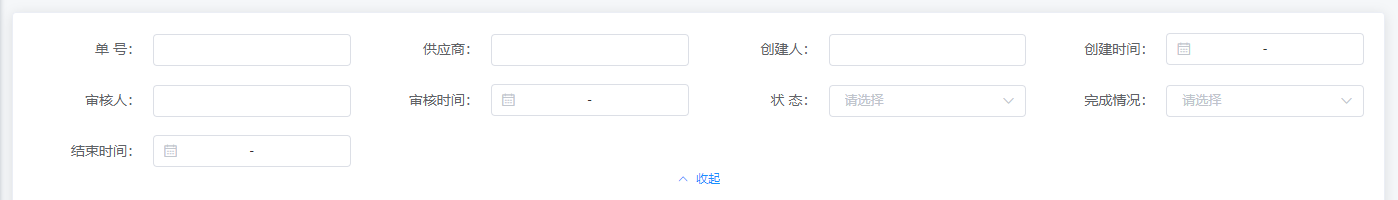
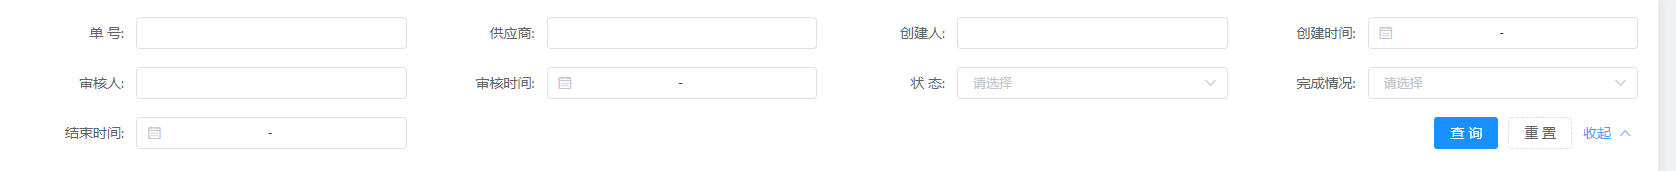
文档更新

diff --git a/docs/.vuepress/config.js b/docs/.vuepress/config.js
@@ -35,7 +35,7 @@ module.exports = {
                     {
                         title: '组件',
                         children: [
-                            '/frontend/components/abstract-table',
+                            '/frontend/components/abstract',
                             '/frontend/components/region-selector',
                             '/frontend/components/search-form',
                             '/frontend/components/upload-file',

diff --git a/docs/frontend/components/search-form.md b/docs/frontend/components/search-form.md
@@ -1,59 +1,45 @@
 # Search Form
 
-一个自适应的表单容器，根据父元素的内宽来确定一行渲染多少个表单控件，同时确定是否需要折叠。
+一个自适应的搜索表单，模仿ant-design-pro，根据父元素的内宽来确定一行渲染多少个表单控件，同时确定是否需要折叠。
 
 <img :src="$withBase('/search-form_1.png')">
 <img :src="$withBase('/search-form_2.png')">
 
 ### 引入：
 
-`@/component/SearchForm`，`@/component/SearchFormItem`
+`@/component/SearchForm`
 
 ### 使用：
 ```html
-<search-form>
-    <search-form-item label="单 号：">
+<search-form v-model="searchForm" @search="search">
+    <el-form-item label="label1">
         <el-input/>
-    </search-form-item>
-    <search-form-item label="采购订单：">
+    </el-form-item>
+    <el-form-item label="label2">
         <el-input/>
-    </search-form-item>
-    <search-form-item label="创建人：">
-        <el-input/>
-    </search-form-item>
-    <search-form-item label="创建时间：">
-        <el-date-picker/>
-    </search-form-item>
-    <search-form-item label="审核人：">
-        <el-input/>
-    </search-form-item>
-    <search-form-item label="审核时间：">
-        <el-date-picker/>
-    </search-form-item>
-    <search-form-item label="状 态：">
-        <el-select/>
-    </search-form-item>
+    </el-form-item>
 </search-form>
 ```
 
 ### SearchForm Attributes：
 
-| 参数                | 说明                                 | 类型     | 默认      |
-| :-----------------: | :----------------------------------: | :------: | :-------: |
-| label-width         | 等同于`el-form`的`label-width`       | `string` | `'120px'` |
-| xs                  | 父元素内宽<768px时，每行渲染多少空间 | `number` | `1`       | 
-| sm                  | >=768px                              | `number` | `2`       | 
-| md                  | >=998px                              | `number` | `3`       | 
-| lg                  | >=1200px                             | `number` | `4`       | 
+| 参数        | 说明                                 | 类型     | 默认      |
+| :---------: | :----------------------------------: | :------: | :-------: |
+| model       | 表单数据，支持v-model，用于重置表单  | `object` | -         |
+| label-width | 等同于 `el-form` 的 `label-width`    | `string` | `'120px'` |
+| xs          | 父元素内宽<768px时，每行渲染多少空间 | `number` | `1`       | 
+| sm          | >=768px                              | `number` | `2`       | 
+| md          | >=998px                              | `number` | `3`       | 
+| lg          | >=1200px                             | `number` | `4`       | 
 
-### SearchForm Slots：
+### SearchForm Events：
 
-| 名称     | 说明                                                                    |
-| :------: | :---------------------------------------------------------------------: |
-| collapse | 折叠按钮，参数为 `{collapse:展开为true否则false,handle:展开折叠的方法}` |
+| 名称   | 说明                                                                    |
+| :----: | :--------------------------------: |
+| search | 点击查询按钮触发                   |
+| reset  | 点击重置按钮触发，参数为表单初始值 |
 
-### SearchFormItem Attributes：
-
-| 参数  | 说明                          | 类型     | 默认      |
-| :---: | :---------------------------: | :------: | :-------: |
-| label | 等同于`el-form-item`的`label` | `string` | -         |
+::: tip 注意
+`<search-form>` 算是对 `<el-form>` 的封装，其 `label-suffix` 属性为`':'`，
+也就是说 `<search-form>` 下的所有 `<el-form-item>` 项的label后缀为`':'`
+:::

diff --git a/docs/frontend/components/abstract.md b/docs/frontend/components/abstract.md
@@ -1,0 +1,63 @@
+# 二次封装的element-ui组件
+
+这些组件位于 `@/component/abstract` 下，均为函数式组件，无特殊声明时与原始的 `element-ui` 组件没有区别。
+
+## Dialog
+
+位于 `@/component/abstract/Dialog/index.vue`。
+
+可拖拽，超出滚动（使用 `el-scrollbar`），使用 `value`（支持 `v-model`） 代替 `visible`，新增了 `loading` 属性。
+
+## Form
+
+位于 `@/component/abstract/Form`。
+
+对 `el-form` 和 `el-form-item` 做了默认封装（`index.vue` 和 `item.vue`），使用 `el-row` 和 `el-col` 包裹。
+
+用法：
+```vue
+<abstract-form :model="model" :rules="rules">
+    <abstract-form-item label="xxx" prop="xxx">
+        <el-input/>
+    </abstract-form-item>
+</abstract-form>
+```
+
+`abstract-form` 的其他用法与 `el-form` 没有区别，`abstract-form-item` 参数如下：
+
+| 名称  | 说明                                   | 类型    | 默认值 |
+|:-----:|:--------------------------------------:|:-------:|:------:|
+| full  | 为 `true` 时，将占满一行               | Boolean | -      |
+| thin  | 为 `true` 时，屏幕宽度>=1200px下占12列 | Boolean | -      |
+| label | 等同于 `el-form-item` 的 `label`       | String  | -      |
+| prop  | 等同于 `el-form-item` 的 `prop`        | String  | -      |
+
+::: tip 注意
+当 `abstract-form-item` 的 `full` 为 `true` 时，可以认为是 `el-form-item` 的子集
+:::
+
+## Pagination
+
+位于 `@/component/abstract/Pagination/index.vue`。
+
+设置了一些默认属性，与 `el-pagination` 的区别是增加了 `model` 属性，
+`model` 是一个 `{total, page, pageSize}` 对象，对应 `el-pagination` 的 `total`、`current-page`、`page-size` 属性
+
+## Table
+
+位于 `@/component/abstract/Table/index.vue`。
+
+给 `<el-table>` 设置了一些默认属性，设置了 `empty` 插槽（位于 `@/component/Empty`）。
+```html
+<el-table
+    ref="table"
+    current-row-key="id"
+    row-key="id"
+    highlight-current-row
+    {...data}
+    >
+    {children}
+    <Empty slot="empty"/>
+</el-table>
+```
+

diff --git a/docs/frontend/layout.md b/docs/frontend/layout.md
@@ -2,11 +2,11 @@
 
 <img :src="$withBase('/布局.png')">
 
-文件目录：`@/layout/index.vue`。
+布局也是一个组件，比较重型而已，文件目录：`@/layout/index.vue`。
 
 此布局是在vue-element-admin的基础上改造而来，并且模仿and design pro实现了三种导航模式。
 
-实际上这个布局算是二级路由，一级路由是App.vue，这就是为什么经常会看到路由会这么写的原因：
+实际上这个布局算是二级路由，一级路由是 `App.vue`，这就是为什么经常会看到路由会这么写的原因：
 ```json
 {
     "path": "/",
@@ -15,8 +15,7 @@
         {
             "path": "index",
             "name": "index",
-            "component": Page,
-            "meta": {"title": "首页"}
+            "component": Page
         }
     ]
 }
@@ -27,9 +26,9 @@
 
 项目中没有用到 `Layout` 的页面只有 `@/router/define.js` 里的 `login`、`403`、`404`、`500`。
 
-此外，在写`Layout`这个重型组件时，已经尽可能地进行独立化（拥有作为独立组件的可能性）。
-目前`Layout`的数据控制基本由`Vue.observable`实现（文件都在`@/layout/store`下），
-仅有*未读消息数*、*用户信息*需要使用`vuex`。
+此外，在写 `Layout` 这个重型组件时，已经尽可能地进行独立化（拥有作为独立组件的可能性）。
+目前 `Layout` 的数据控制基本由 `Vue.observable` 实现（文件都在 `@/layout/store` 下），
+仅有*未读消息数*、*用户信息*需要使用 `vuex`。
 
 ## 侧边栏
 
@@ -124,6 +123,6 @@ PC端的行为是切换侧边栏的折叠状态，移动端是切换侧边栏在
 
 只是一个静态dom，想咋改就咋改。
 
-目前页脚全局显示，没有提供配置来隐藏。
+目前页脚全局显示，没有提供配置来隐藏，不想显示的直接删除即可。
 
 

diff --git a/docs/frontend/permission.md b/docs/frontend/permission.md
@@ -1,17 +1,25 @@
 # 权限
 
+本前端项目里需要用到权限控制的地方有两个：
+
+    1. 路由页面的跳转
+       源码位于 `@/router/guardian/accessControl.js`，再说明一点，不需要登录的路由也不需要进行权限控制
+    
+    2. 按钮
+       一般使用 `v-if` 或者 `render` 做，尽量不使用 `display: none`，如果不得已那么需要在按钮方法里控制
+
 项目使用基于资源url的形式来实现权限控制，说白点就是用户的所有操作都可以用一个url来标识。
 
 鉴权方法为 `@/util/auth.js #auth`。
 
 ### 鉴权前的准备工作
 
-登陆成功后，后台返回用户所拥有的资源，构造出用户的权限树。
-之后用户在进入系统的任意一个非白名单内的路由时，会向后台获取所有的资源，构造出总权限树。
+登陆成功时，后台返回用户所拥有的资源，构造出用户的权限树。
+之后用户在进入系统的任意一个需要登录才可访问的路由时，会向后台获取所有的资源，构造出总权限树（同时渲染菜单）。
 
 ### 鉴权流程
 
-1. 如果用户是`admin`身份，那么直接放行。
+1. 如果用户是 `admin` 身份，那么直接放行。
 
 2. 如果访问的 `url` 不在总权限树内，说明该操作无需权限，放行。
 
@@ -23,7 +31,7 @@
 
 ### 如何移除权限控制？
 
-前端的权限控制的方法全在 `@/util/auth.js` 里面，哪里引入就改哪里，粗暴点直接把`# auth`方法返回true就完事了。
+前端的权限控制的方法全在 `@/util/auth.js` 里面，哪里引入就改哪里，粗暴点直接让 `# auth` 方法返回true就完事了。
 后端的权限控制由拦截器实现，同样的改造原理，easy啦。
 
 ### 为什么不是RBAC？

diff --git a/docs/frontend/mock.md b/docs/frontend/mock.md
@@ -1,8 +1,7 @@
 # mock
 
 如果不想依赖后端的话，需要将 `@/config` 中的 `useMock` 设为true，
-同时在 `@/mock/controller` 里写对应的处理路由，项目中预先写了三个
-基础的路由，可以让你进行 *登陆-登出* 的基础操作，可以照着代码自行扩展。
+同时在 `@/mock/controller` 里写对应的处理路由，项目中预先写了三个基础的路由，
+可以让你进行 *登陆-登出* 的基础操作，可以照着代码自行扩展。
 
-目前mock和代理不能共存，如果真想要这个功能的话，需要自己在`vue.config.js` 
-中的 `devServer.proxy` 设置拦截路径。
+目前mock和代理不能共存，如果真想要这个功能的话，需要自己在`vue.config.js` 中的 `devServer.proxy` 设置拦截路径。

diff --git a/docs/frontend/components/region-selector.md b/docs/frontend/components/region-selector.md
@@ -20,6 +20,7 @@
 | 参数                | 说明                                    | 类型             | 默认    |
 | :-----------------: | :-------------------------------------: | :--------------: | :-----: |
 | type                | 选择器类型，`tab / tree`                | `string`         | `'tab'` |
+| regionDataUrl       | 行政区域json的请求地址                  | `string`         | `${process.env.BASE_URL}static/json/region-pca.json` |
 | value / v-model     | 绑定值                                  | `string / array` | -       | 
 | readonly            | 等同于`el-select`的`disabled`           | `boolean`        | -       | 
 | size                | 等同于`el-select`的`size`               | `string`         | -       | 

diff --git a/docs/frontend/plugins.md b/docs/frontend/plugins.md
@@ -1,11 +1,11 @@
 # 插件
 
-这里放的是即使删掉也不会影响运行的东东，基本都通过`import().then()`的方式来引用。
+`@/plugin` 中放的是即使删掉也不会影响运行的东东，都通过`import().then()`的方式来引用。
 
 ## canvas动画
 
-所有动画位于 `@/plugin/canvasAnimation`下，使用 `new Animation(canvas)`的方式来创建一个动画。
-想停止的话调用 `Animation.stop()` 即可。
+所有动画位于 `@/plugin/canvasAnimation`下，每一个文件夹都会导出一个`Animation`对象，
+使用 `new Animation(canvas)`的方式来创建一个动画，想停止的话调用 `Animation.stop()` 即可。
 
 ## 图片压缩
 

diff --git a/docs/backend/README.md b/docs/backend/README.md
@@ -10,4 +10,4 @@ cloud版基于SpringBoot、SpringCloud、SpringCloudAlibaba、SpringMVC、Mybati
 目前两者在功能上的差别就是local版支持动态修改资源的限流设置，而cloud版由于还在研究sentinel中，
 所以还未实现，暂时以gateway的 `default-filters` 作为替代。
 
-*文档完善中。。。*
+具体文档不写啦，代码写得太垃圾了。。。
